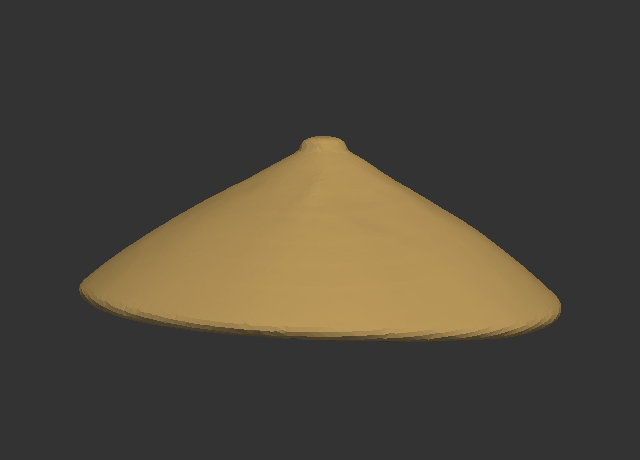
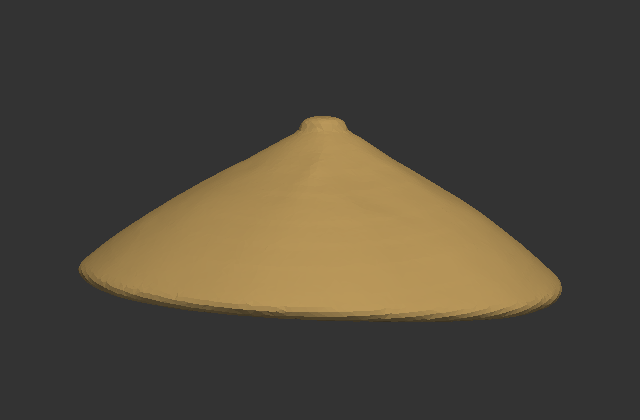
Fix spearhead orientation (was an inverted funnel) — found by the B/C test pass
Running the new TEST_PLAN B/C eyeball on the deliverable caught the spearhead
pointing DOWN (apex flared up like a funnel). add_weapon.py now rotates the
cone -90 so the tip points up. Regenerated; section A re-verified PASS on the
shipped files, hat still seats on the head.

diff --git a/pipeline/add_weapon.py b/pipeline/add_weapon.py
@@ -40,9 +40,12 @@ def main():
     shaft.apply_transform(rot)
     shaft.apply_translation([fx, ymin + h / 2.0, fz])
 
+    # spearhead: cone must POINT UP (apex at top). cone() is base@z0, apex@+z; rotate -90° about X so
+    # local +z -> world +y (apex up), then sit the base at the shaft top. (+90° would invert it into a funnel.)
+    rot_up = trimesh.transformations.rotation_matrix(-np.pi / 2, [1, 0, 0])
     head = trimesh.creation.cone(radius=a.radius * 2.3, height=a.head, sections=28)
-    head.apply_transform(rot)
-    head.apply_translation([fx, shaft_top, fz])  # cone base sits at shaft top, points up
+    head.apply_transform(rot_up)
+    head.apply_translation([fx, shaft_top, fz])  # base at shaft top, apex points up
 
     staff = trimesh.boolean.union([shaft, head])
     combined = trimesh.boolean.union([fig, staff])